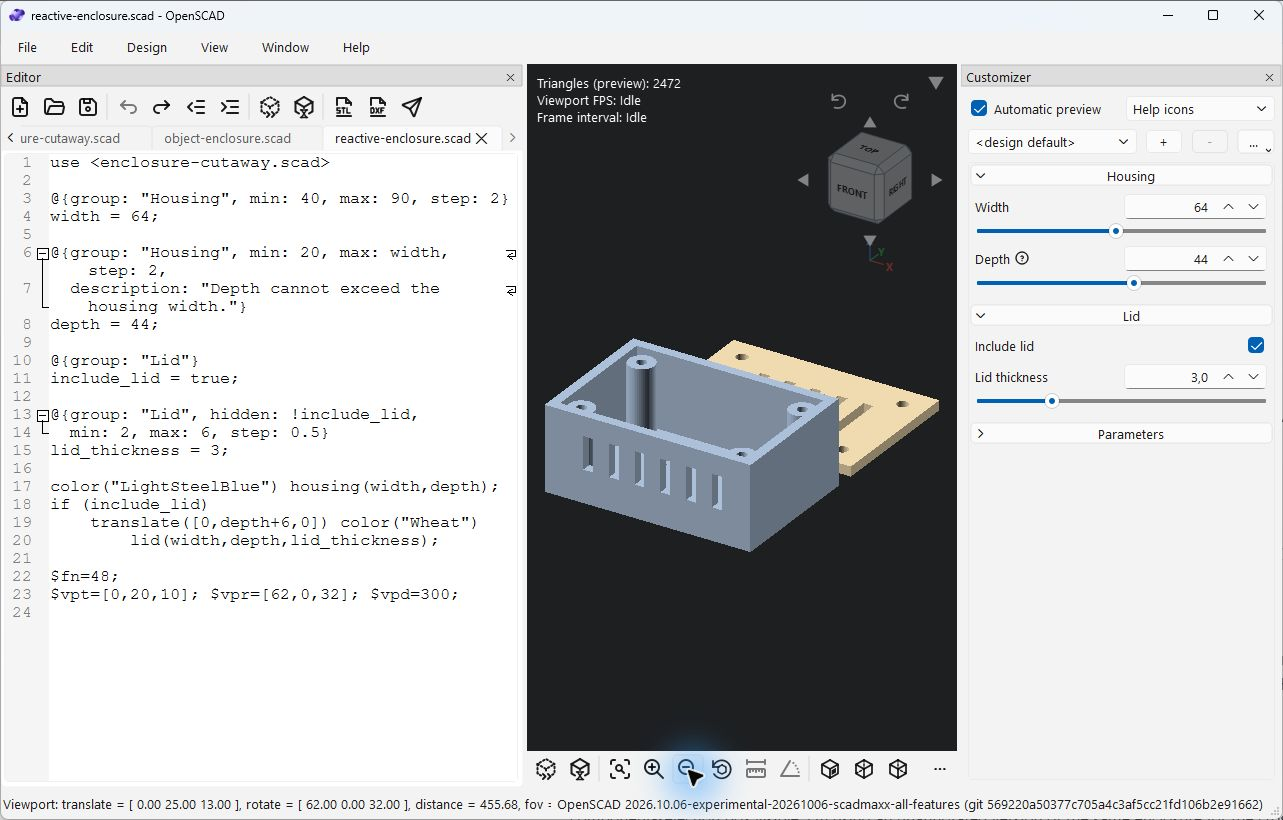
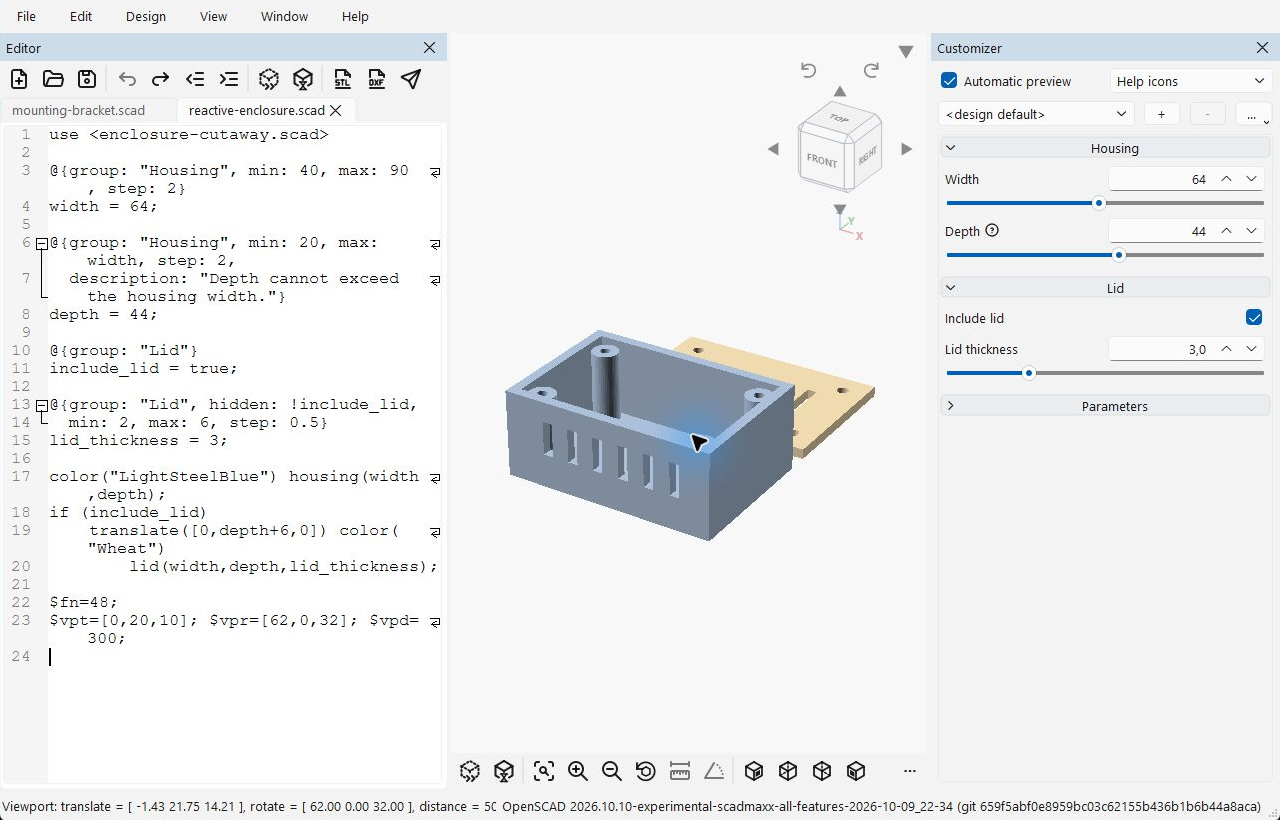
Refresh README UI screenshots from the final integrated release
Capture the selected dock and group hierarchy, Preferences and real shortcut preset controls from source 659f5abf0. Retain baseline provenance and document unchanged historical captures without editing README prose.

diff --git a/docs/readme-screenshot-audit-2026-10-10.md b/docs/readme-screenshot-audit-2026-10-10.md
@@ -10,24 +10,31 @@ Current captures must use final integration `659f5abf0e8959bc03c62155b436b1b6b44
 | agent-access.png | Connection dialog still represents the feature; no changed dock title is shown. Retain. |
 | annotations.png | Annotation demonstration remains valid; refresh recommended for current chrome/toolbar styling. |
 | openscad-skill.png | Missing commented slot, already documented. Requires a real permitted agent demonstration; do not fabricate it. |
-| ui-after.png | Needs replacement: selected E dock/group hierarchy changes the feature being demonstrated. |
+| ui-after.png | Replaced from final shipped integration: matched bracket/camera/theme, selected E dock/group hierarchy. |
 | ui-before.png | Historical upstream comparison baseline. Retain its original provenance. |
 | preferences-before.png | Historical upstream comparison baseline. Retain its original provenance. |
-| preferences-after.png | Needs replacement: Advanced groups and category selection changed. |
+| preferences-after.png | Replaced: actual Advanced groups and category selection from final shipped integration. |
 | navigation-cube.png | Tight crop still depicts the same controls. Retain. |
 | model-inspection.png | Feature state remains illustrative; cosmetic refresh recommended for the new Inspector title. |
 | live-sections.png | Direction/position controls remain illustrative; cosmetic refresh recommended for the new dock title. README text about removed rotation handles is stale. |
 | contextual-insertion.png | Real preview remains illustrative; cosmetic refresh recommended for the new dock title. |
 | vim-editor.png | Visual-line example remains illustrative; cosmetic refresh recommended for the new Editor title. |
 | launcher.png | Separate application unaffected by this UI branch; displayed historical installation paths are stale. Recapture with current launcher registrations in a launcher task. |
-| shortcuts.png | Needs replacement: named presets, Load, Save as, Import and Export are missing. |
+| shortcuts.png | Replaced: real application actions plus complete preset Save as, Load, Import and Export controls. |
 | dark-mode.png | Old Customizer/title palette. Refresh together with light-mode.png, preserving matched camera/layout. |
 | light-mode.png | Old Customizer/title palette. Refresh together with dark-mode.png. |
 | objects.png | Language example remains valid; cosmetic refresh recommended for the new Editor title. |
-| customizer-attributes.png | Reactive behavior remains valid; refresh recommended for the selected E header hierarchy. |
+| customizer-attributes.png | Replaced: real reactive attribute declarations, housing/lid and selected E header hierarchy. |
 | parts-assemblies.png | Component demonstration remains valid; cosmetic refresh recommended for the new Inspector title. |
 | anchors-attachments.png | Anchor demonstration remains valid; cosmetic refresh recommended for the new Inspector title. |
 
 The untouched images retain their original source/binary identities in `screenshots/sources.json`.
 They are not represented as captures of this release. A screenshot audit is distinct from recapturing
 every feature demonstration; only successful real application captures may replace repository images.
+
+The five October 10 captures (including supplementary `preferences-3d-view.png`) are in
+`D:/openscad/runs/scadmaxx-all-features-2026-10-09_22-34/readme-captures`. Native originals and previous
+assets are retained there. Replacement crops remove window chrome only; matching comparison dimensions
+remain 1280×820 and 865×860. User viewport palette was restored to Nord Light; no bindings or model sources
+were changed. The matched older light/dark pair is retained as historical evidence, with its older palette
+explicitly identified above; it has not been recolored or mislabeled as current.
